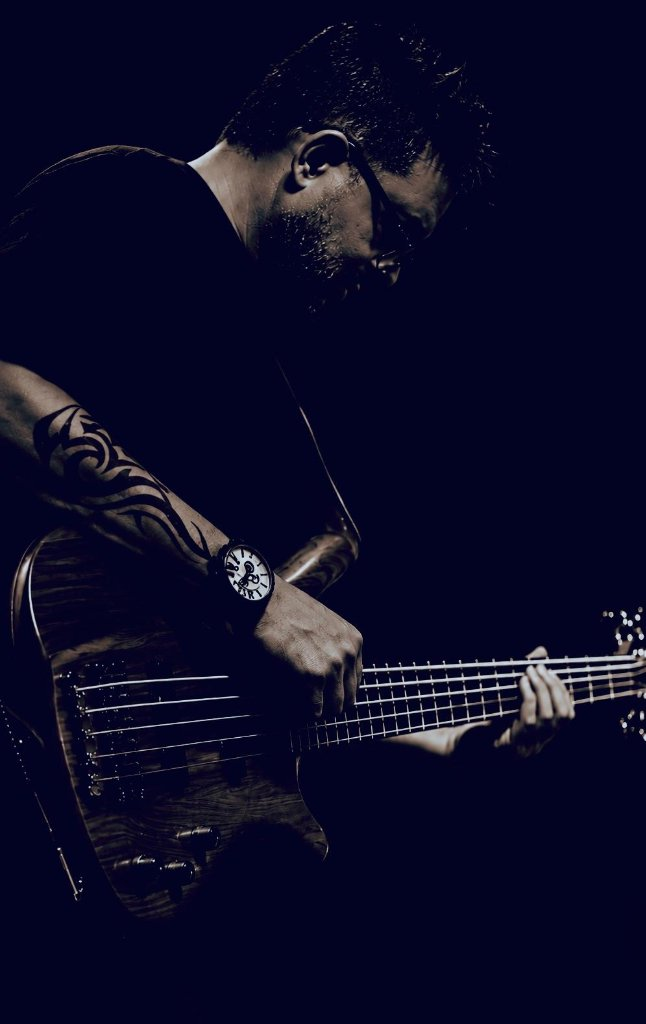
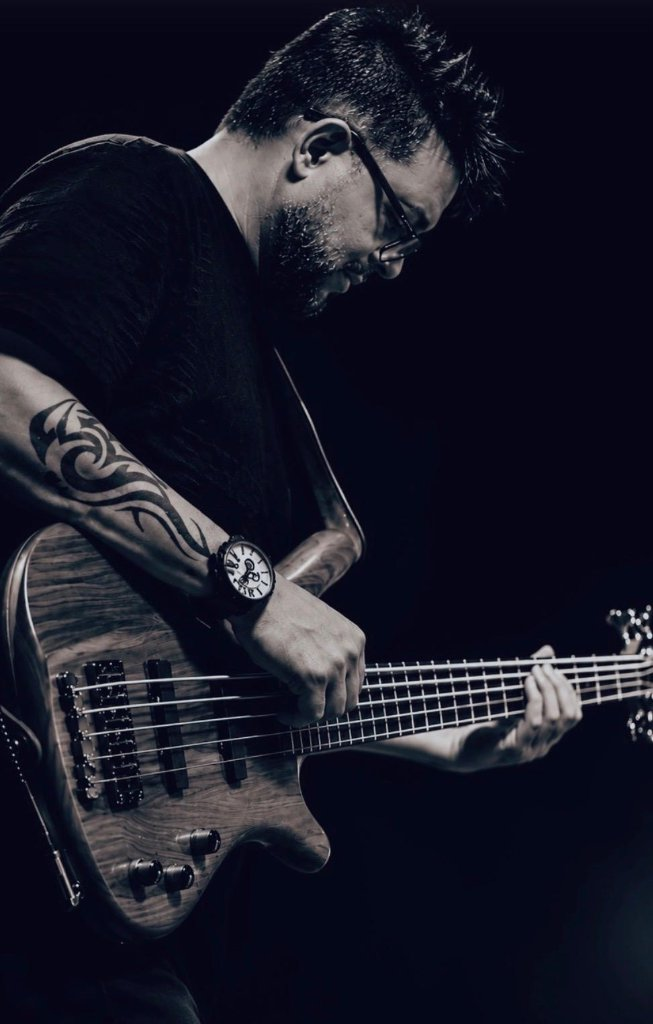
feat(hero): align mobile portrait position with reference, remove lower wordmark and add spacing below kicker

diff --git a/src/components/sections/EditorialHero.tsx b/src/components/sections/EditorialHero.tsx
@@ -6,10 +6,10 @@ import Link from "next/link";
 
 export const EditorialHero: React.FC = () => {
   return (
-    <section className="relative min-h-screen bg-black text-beige flex flex-col justify-end pt-24 pb-12 sm:pb-16 md:pb-24 overflow-hidden border-b border-graphite">
+    <section className="relative min-h-screen bg-[#080808] text-beige flex flex-col justify-end pt-32 sm:pt-40 md:pt-48 pb-12 sm:pb-16 md:pb-24 overflow-hidden border-b border-graphite">
       {/* Background Official Artist Photography */}
       <div className="absolute inset-0 z-0">
-        {/* Mobile Background: Vertical portrait matching Marcus Miller reference */}
+        {/* Mobile Background: Vertical portrait positioned faithfully to Marcus Miller mobile reference */}
         <div className="relative w-full h-full block md:hidden">
           <Image
             src="/media/hero/isma-hero-vertical.jpg"
@@ -17,11 +17,11 @@ export const EditorialHero: React.FC = () => {
             fill
             priority
             sizes="100vw"
-            className="object-cover object-top filter contrast-[1.08] brightness-[0.85]"
+            className="object-cover object-[35%_12%] filter contrast-[1.08] brightness-[0.82]"
           />
-          {/* Gradients tailored for mobile legibility like Marcus Miller site */}
-          <div className="absolute inset-0 bg-gradient-to-t from-black via-black/75 to-transparent" />
-          <div className="absolute inset-0 bg-gradient-to-b from-black/60 via-transparent to-black/90" />
+          {/* Seamless black vignetting: artist seamlessly blends into #080808 */}
+          <div className="absolute inset-0 bg-gradient-to-t from-[#080808] via-[#080808]/80 via-45% to-transparent" />
+          <div className="absolute inset-0 bg-gradient-to-b from-[#080808]/75 via-transparent to-[#080808]/90" />
         </div>
 
         {/* Desktop Background: Full horizontal stage composition */}
@@ -35,30 +35,19 @@ export const EditorialHero: React.FC = () => {
             className="object-cover object-left lg:object-center filter contrast-[1.05] brightness-[0.88]"
           />
           {/* Layered dark contrast treatment for seamless typography integration */}
-          <div className="absolute inset-0 bg-gradient-to-t from-black via-black/45 to-transparent" />
-          <div className="absolute inset-0 bg-gradient-to-r from-black/85 via-black/40 to-black/70 lg:to-transparent" />
+          <div className="absolute inset-0 bg-gradient-to-t from-[#080808] via-[#080808]/45 to-transparent" />
+          <div className="absolute inset-0 bg-gradient-to-r from-[#080808]/85 via-[#080808]/40 to-[#080808]/70 lg:to-transparent" />
         </div>
       </div>
 
       <div className="max-w-7xl mx-auto px-6 md:px-12 relative z-10 w-full">
         <div className="max-w-2xl md:max-w-3xl">
           
-          {/* Subtitle / Kicker */}
-          <div className="mb-3 md:mb-4">
-            <span className="font-sans text-[10px] sm:text-[11px] md:text-xs tracking-epic uppercase text-gold font-medium">
+          {/* Subtitle / Kicker - shifted down ~100px on mobile via mt-24 / pt-6 */}
+          <div className="mt-20 sm:mt-24 md:mt-0 mb-4 md:mb-6">
+            <span className="font-sans text-[11px] sm:text-xs tracking-epic uppercase text-gold font-medium">
               Contrabaixista | Compositor | Produtor | Educador
             </span>
-          </div>
-
-          {/* Official Custom Lettering Wordmark (Cleaned - No Bazaart watermark) */}
-          <div className="relative w-[260px] sm:w-[360px] md:w-[480px] lg:w-[540px] h-[75px] sm:h-[105px] md:h-[140px] mb-4 md:mb-6 -ml-1 sm:-ml-2 md:-ml-3">
-            <Image
-              src="/media/brands/isma-ciriaco-wordmark.png"
-              alt="ISMA CIRIACO"
-              fill
-              priority
-              className="object-contain object-left filter brightness-110 drop-shadow-[0_4px_20px_rgba(0,0,0,0.8)]"
-            />
           </div>
 
           {/* Editorial Hook inspired by Marcus Miller reference */}
